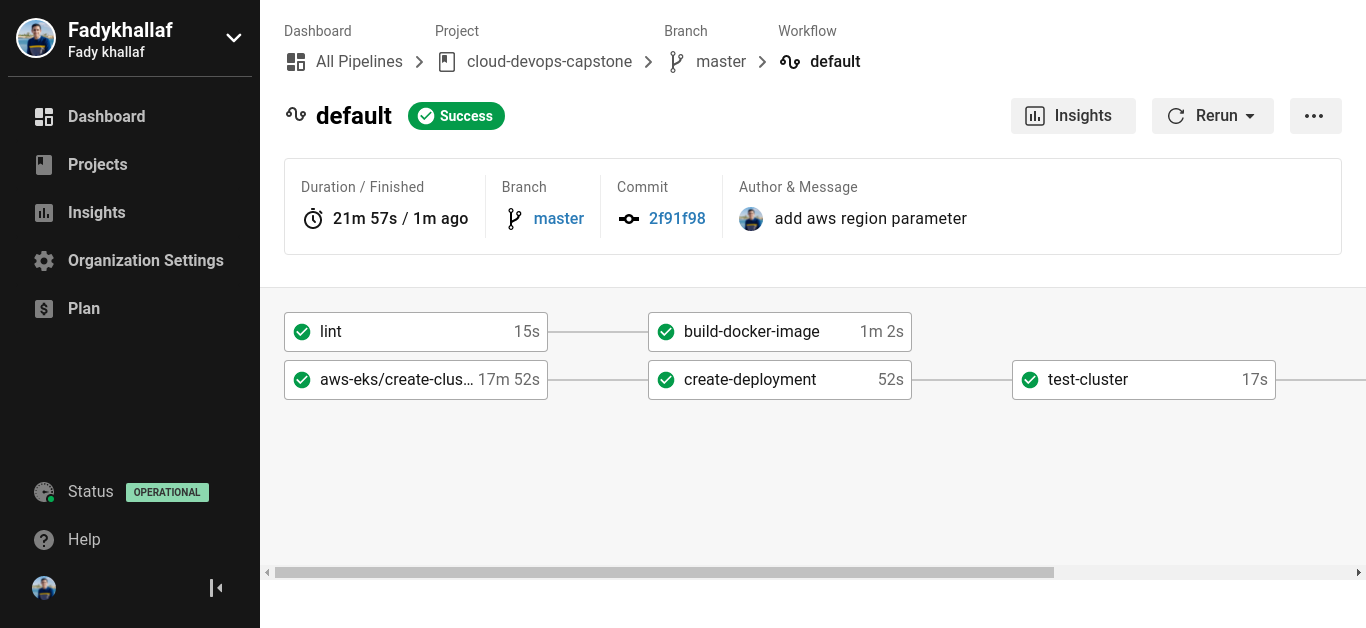
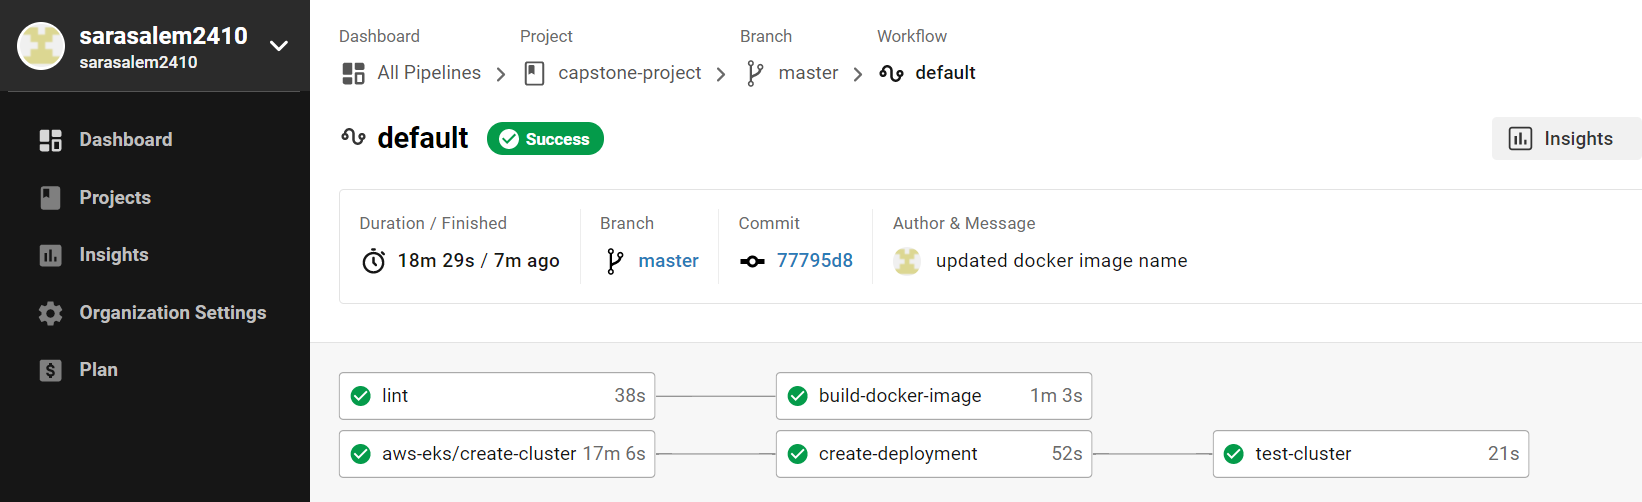
updated docker image name

diff --git a/README.md b/README.md
@@ -1,6 +1,6 @@
 # CircleCi Status
 
-[![CircleCI](https://circleci.com/gh/circleci/circleci-docs.svg?style=svg)](https://app.circleci.com/pipelines/github/sarasalem2410/capstone-project)
+[![CircleCI](https://circleci.com/gh/circleci/circleci-docs.svg?style=svg)](https://app.circleci.com/pipelines/github/sarasalem2410/capstone-project/5/workflows/5c7e457c-8448-4740-aa3f-b45eb60eaa3e)
 
 ## Project Overview hi
 
@@ -24,7 +24,7 @@ In this step I built my docker image and pushed it the dockerhub
 ``` yaml
 docker build --tag=capstone .
 docker images ls
-dockerpath="sarasalem2410/capstone-project"
+dockerpath="sarasalem2410/capstone"
 docker tag capstone:latest $dockerpath
 echo "Docker ID and Image: $dockerpath"
 echo "$DOCKER_PASS" | docker login --username $DOCKER_USER --password-stdin
